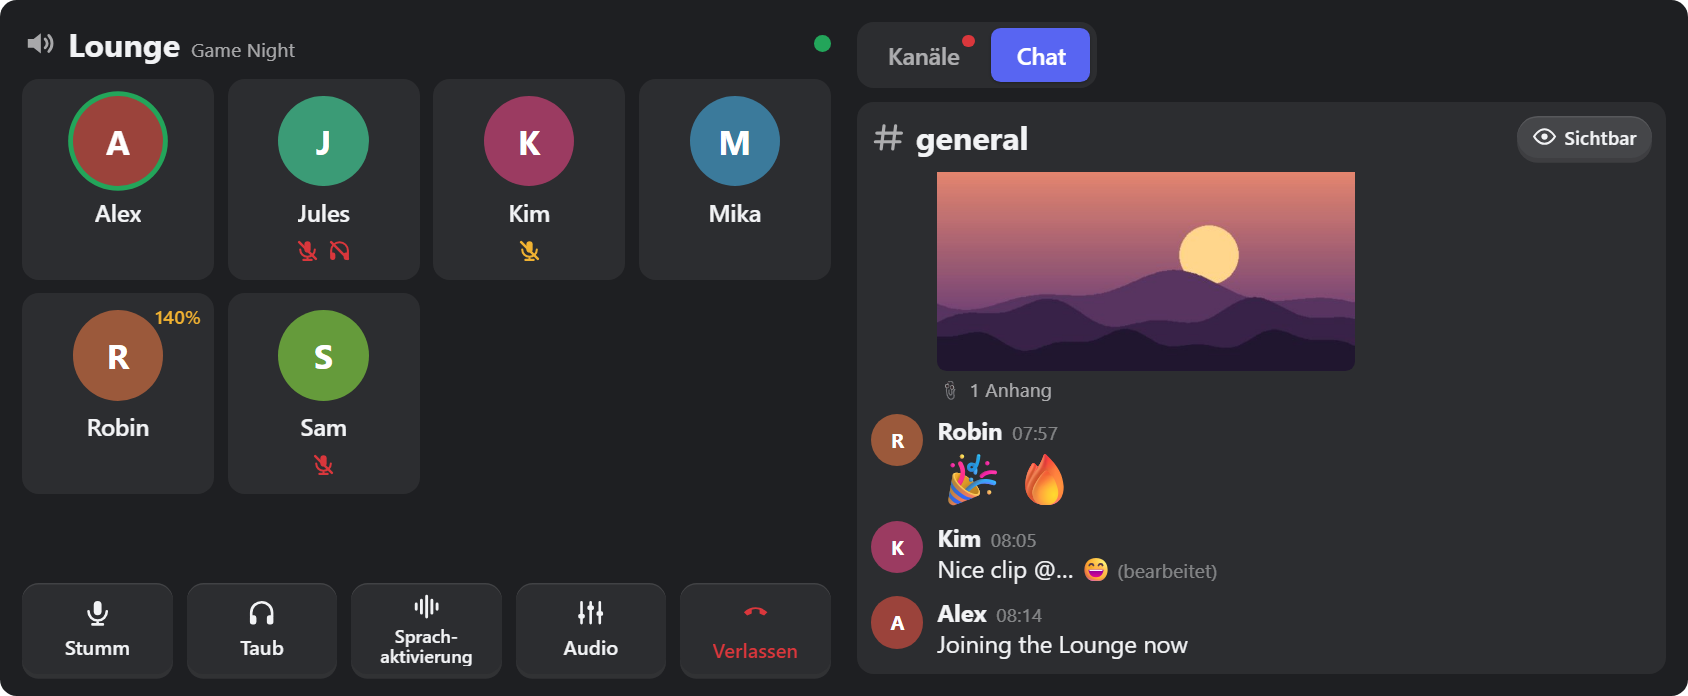
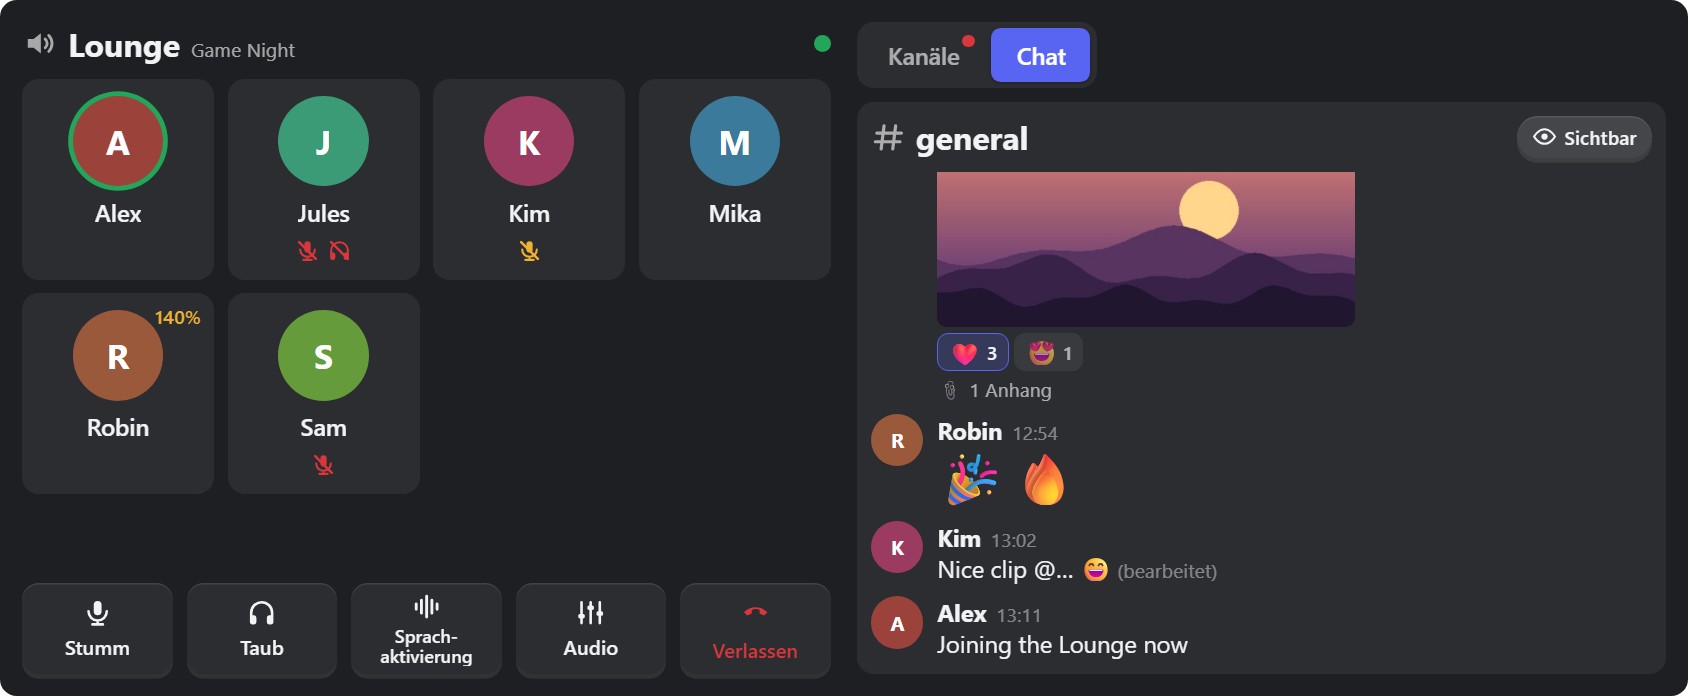
Docs and screenshots for 0.9.5 (reactions)

diff --git a/docs/SETUP.md b/docs/SETUP.md
@@ -57,7 +57,7 @@ Discord erlaubt die Steuerung nur über eine *eigene* App. Das klingt technisch,
 - **Kanal verlassen:** „Verlassen“ **gedrückt halten**, bis die rote Füllung durch ist (lässt sich in den Widget-Einstellungen auf einfaches Tippen umstellen).
 - **Direktnachrichten:** Sprechblasen-Symbol ganz oben in der Server-Spalte. Unterhaltungen erscheinen, sobald dir jemand schreibt, während der Hub läuft (Discord meldet DMs nur über Benachrichtigungen; die Liste wird nicht gespeichert). Nach einem Update fragt der Hub einmal nach der neuen Berechtigung „Benachrichtigungen lesen“ – einfach auf das Tray-Symbol klicken und in Discord autorisieren.
 - **Lautstärke einer Person:** auf die Person tippen → Regler 0–200 %, „Für mich stumm“, „Zurücksetzen“.
-- **Privatmodus:** Knopf **„Sichtbar/Privat“ oben im Chat** oder in den Widget-Einstellungen. Chat, Bilder und Emojis bleiben unkenntlich, bis du darauftippst – gut zum Streamen.
+- **Privatmodus:** Knopf **„Sichtbar/Privat“ oben im Chat** oder in den Widget-Einstellungen. Chat, Bilder, Emojis und Reaktionen bleiben unkenntlich, bis du darauftippst – gut zum Streamen.
 - **Hintergrundbild, eigene Farben, Transparenz:** in den Widget-Einstellungen **„Benutzerdefinierter Stil“** einschalten. Ohne ihn übernimmt das Widget die Farben deiner iCUE-Seite. „Design“ kann trotzdem **Dunkel** oder **Hell** erzwingen.
 - **Seiten wechseln auf der Edge (Wischen):** iCUE gibt Wischgesten über Touch-Widgets nicht weiter. Voicedeck Edge erkennt das Wischen selbst und drückt für dich das iCUE-Tastenkürzel zum Umblättern. Einmal einrichten:
   1. In iCUE auf deine **XENEON EDGE** klicken und **Geräte-Einstellungen** öffnen.
@@ -141,7 +141,7 @@ Discord only allows control through *your own* app. It sounds technical but is j
 - **Leave a channel:** **press and hold** "Leave" until the red fill completes (can be switched to a single tap in the widget settings).
 - **Direct messages:** speech-bubble icon at the top of the server column. Conversations appear as soon as someone writes to you while the hub runs (Discord only reports DMs through notifications; the list is not stored). After an update the hub asks once for the new permission "read notifications" – click the tray icon and authorize in Discord.
 - **Someone's volume:** tap the person → slider 0–200 %, "Mute for me", "Reset".
-- **Private mode:** **"Visible/Private" button at the top of the chat** or in the widget settings. Chat, images and emojis stay unreadable until tapped – good for streaming.
+- **Private mode:** **"Visible/Private" button at the top of the chat** or in the widget settings. Chat, images, emojis and reactions stay unreadable until tapped – good for streaming.
 - **Background image, own colours, transparency:** switch on **"Custom Style"** in the widget settings. Without it, the widget uses your iCUE page colours; "Theme" can still force **Dark** or **Light**.
 - **Switching pages on the Edge (swipe):** iCUE does not pass swipes over touch widgets through. Voicedeck Edge detects the swipe itself and presses iCUE's page shortcut for you. Set it up once:
   1. In iCUE, click your **XENEON EDGE** and open **Device settings**.

diff --git a/docs/DESIGN.md b/docs/DESIGN.md
@@ -229,7 +229,7 @@ Keine Plugins nötig. Der Port ist fest und nicht einstellbar, damit die deklari
 
 ### 2.7 Erweiterungen nach v0.9-Test (2026-10-27)
 
-- **Chat-Bilder und Server-Emojis:** Der Hub registriert jedes Bild einer Nachricht (Anhänge, Bild-Embeds) in `MediaRegistry` und gibt dem Widget nur einen Token-Pfad `/img/m/{token}`. Nur `cdn.discordapp.com`, `media.discordapp.net` und `images-ext-*.discordapp.net` (HTTPS), Vorschau max. 480 px Breite, max. 4 Bilder pro Nachricht, nur im Speicher. Server-Emojis über `/img/emojis/[a/]{id}`. Keine freie URL-Weiterleitung.
+- **Chat-Bilder und Server-Emojis:** Der Hub registriert jedes Bild einer Nachricht (Anhänge, Bild-Embeds) in `MediaRegistry` und gibt dem Widget nur einen Token-Pfad `/img/m/{token}`. Nur `cdn.discordapp.com`, `media.discordapp.net` und `images-ext-*.discordapp.net` (HTTPS), Vorschau max. 480 px Breite, max. 4 Bilder pro Nachricht, nur im Speicher. Server-Emojis über `/img/emojis/[a/]{id}`, auch für Reaktionen (`reactions`: Emoji, Anzahl, `me`; max. 20 pro Nachricht, live über `MESSAGE_UPDATE`). Keine freie URL-Weiterleitung.
 - **Privatmodus-Knopf** im Chat-Kopf: überschreibt die iCUE-Einstellung im Widget (`localStorage`); ändert sich die iCUE-Einstellung, gilt wieder sie. Verdeckt auch Bilder und Emojis.
 - **Mikro-Interaktionen** nach interior.dev (MIT, Copyright (c) 2026 ozzy), in reinem CSS/JS nachgebaut (`scripts/motion.js`, `styles/motion.css`): Press Depth (alle Knöpfe), Hold to Confirm (Verlassen, 1,2 s – ersetzt „zweimal tippen“), Long Press (anheften), Segmented Control (Tabs), Slider Detents (Lautstärke 50/100/150/200), New Items Pill (Chat), Blur-up Image (Chat-Bilder). `prefers-reduced-motion` schaltet Bewegung ab. Kanalliste und Chat werden nur bei echten Inhaltsänderungen neu aufgebaut (sonst brechen Gesten ab).
 - **Direktnachrichten** (Spike + Edge-Test 2026-10-27): RPC hat keine DM-Liste (`GET_CHANNELS` ohne Server liefert alle Serverkanäle, keine DMs). DMs werden über `NOTIFICATION_CREATE` (Scope `rpc.notifications.read`) erkannt; `GET_CHANNEL` (bis ~50 Nachrichten) und `SUBSCRIBE MESSAGE_CREATE` funktionieren für DM-Kanäle (Typ 1/3). Liste der letzten 20 Unterhaltungen **nur im Arbeitsspeicher** (bewusste Datenschutz-Entscheidung), Zähler für Ungelesenes, Anzeige wie in Discord (DM-Symbol oben in der Server-Spalte). Ältere Anmeldungen ohne den Scope → Hub verlangt einmal neue Autorisierung.

diff --git a/README.de.md b/README.de.md
@@ -22,7 +22,7 @@ Kostenlos und Open Source. Kein Konto bei uns, keine Server, kein Tracking.
 | ![Lautstärke pro Person](docs/images/de/m-volume.png) | **Lautstärke für jede Person**<br>Tippe auf jemanden, um ihn lauter oder leiser zu machen (0–200 %) oder nur für dich stummzuschalten. Bei 100 % rastet der Regler ein. |
 | ![Audiogeräte](docs/images/de/m-audio.png) | **Mikrofon und Kopfhörer**<br>Der Knopf *Audio* wechselt Discords Eingabe- und Ausgabegerät und stellt ihre Lautstärke ein – praktisch, wenn du zwischen Headset und Lautsprechern wechselst. |
 | ![Direktnachrichten](docs/images/de/m-direct.png) | **Server, Kanäle und Direktnachrichten**<br>Deine Server in einer Spalte wie in Discord – gedrückt halten zum Verschieben. Tippe auf einen Sprachkanal zum Beitreten, auf einen Textkanal zum Lesen. Rote Zahlen zeigen neue Nachrichten an Servern, Kanälen und Direktnachrichten. |
-| ![Privatmodus](docs/images/de/m-private.png) | **Privatmodus fürs Streamen**<br>Ein Tipp auf das Auge versteckt Chat-Texte, Bilder und Emojis, bis du auf den Chat tippst. |
+| ![Privatmodus](docs/images/de/m-private.png) | **Privatmodus fürs Streamen**<br>Ein Tipp auf das Auge versteckt Chat-Texte, Bilder, Emojis und Reaktionen, bis du auf den Chat tippst. |
 
 **Außerdem dabei**
 
@@ -30,7 +30,7 @@ Kostenlos und Open Source. Kein Konto bei uns, keine Server, kein Tracking.
 - 🎚 **Audiogeräte** – Mikrofon und Kopfhörer/Lautsprecher für Discord wählen, Eingangs- und Ausgangslautstärke einstellen.
 - 📞 **Kanal verlassen** per Gedrückthalten – kein versehentliches Auflegen.
 - ⭐ **Favoriten** – Kanal lange drücken, dann steht er oben.
-- 🖼 **Chat mit Bildern und Server-Emojis**, live aktualisiert.
+- 🖼 **Chat mit Bildern, Server-Emojis und Reaktionen** (❤ 3 – deine hervorgehoben), live aktualisiert.
 - 🎨 **Dunkel, hell oder deine iCUE-Farben**, eigenes Hintergrundbild, einstellbare Textgröße.
 - 📐 **Drei Größen:** Medium (Tabs), Large (zwei Spalten) und XL (alles nebeneinander).
 

diff --git a/README.md b/README.md
@@ -22,7 +22,7 @@ Free and open source. No account with us, no servers, no tracking.
 | ![Volume per person](docs/images/en/m-volume.png) | **Volume for each person**<br>Tap someone to make them louder or quieter (0–200 %) or mute them just for you. The slider clicks into place at 100 %. |
 | ![Audio devices](docs/images/en/m-audio.png) | **Microphone and headphones**<br>The *Audio* button switches Discord's input and output device and sets their volume – handy when you swap between headset and speakers. |
 | ![Direct messages](docs/images/en/m-direct.png) | **Servers, channels and direct messages**<br>Your servers in a column like in Discord – press and hold one to move it. Tap a voice channel to join, a text channel to read it. Red numbers show new messages on servers, channels and direct messages. |
-| ![Private mode](docs/images/en/m-private.png) | **Private mode for streaming**<br>One tap on the eye button hides chat text, pictures and emojis until you tap the chat. |
+| ![Private mode](docs/images/en/m-private.png) | **Private mode for streaming**<br>One tap on the eye button hides chat text, pictures, emojis and reactions until you tap the chat. |
 
 **Also included**
 
@@ -30,7 +30,7 @@ Free and open source. No account with us, no servers, no tracking.
 - 🎚 **Audio devices** – pick your microphone and headphones/speakers for Discord and set input and output volume.
 - 📞 **Leave the channel** by pressing and holding – no accidental hang-ups.
 - ⭐ **Favourites** – press and hold a channel to pin it at the top.
-- 🖼 **Chat with pictures and server emojis**, updating live.
+- 🖼 **Chat with pictures, server emojis and reactions** (❤ 3 – yours highlighted), updating live.
 - 🎨 **Dark, light or your iCUE colours**, your own background picture, adjustable text size.
 - 📐 **Three sizes:** Medium (tabs), Large (two columns) and XL (everything side by side).
 
